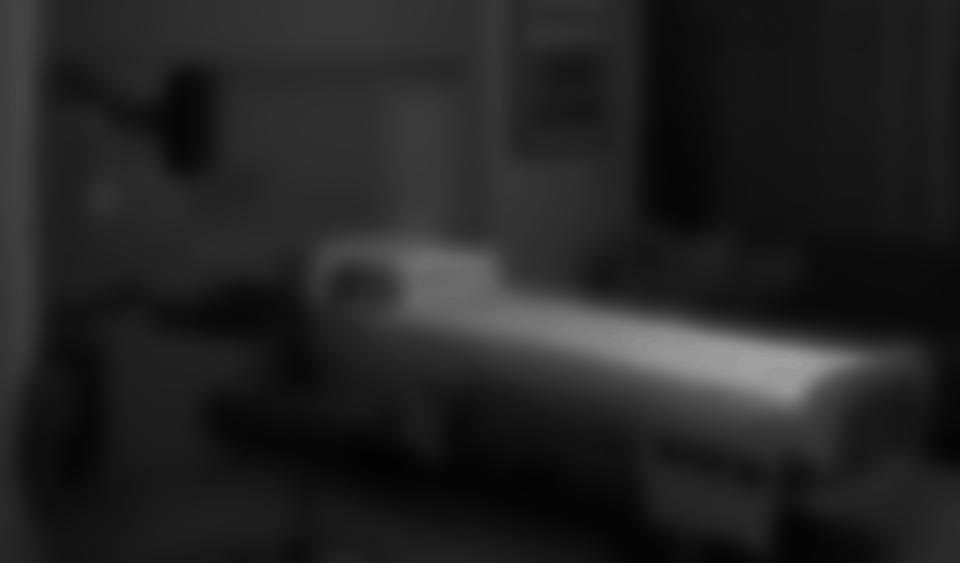
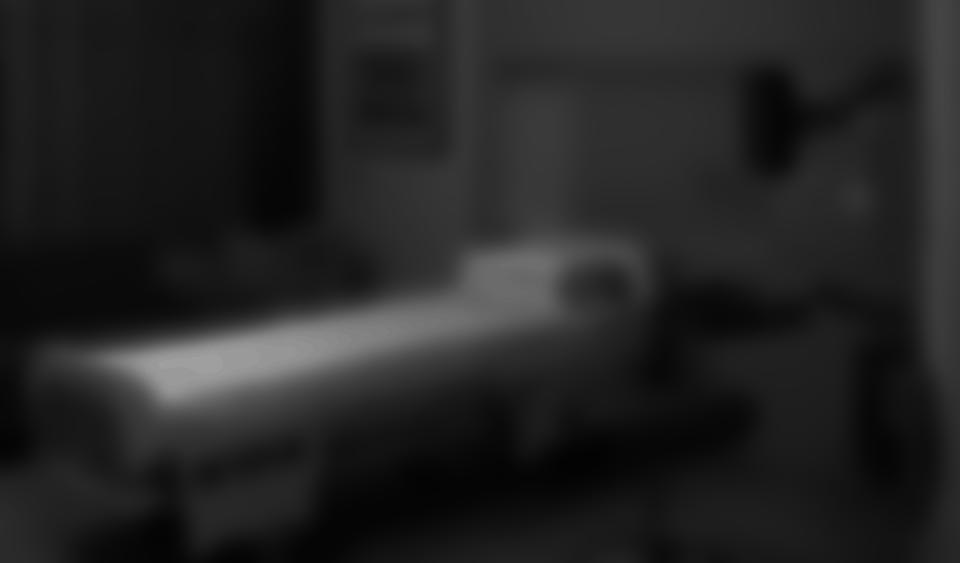
flipped bg horizontally

diff --git a/style.min.css b/style.min.css
@@ -1,1 +1,1 @@
-html{overflow-x:hidden}*{margin:0;-webkit-tap-highlight-color:rgba(0,0,0,0)}body{font-family:Raleway,Georgia,Arial,Verdana;-webkit-font-smoothing:subpixel-antialiased;-moz-font-smoothing:subpixel-antialiased;text-shadow:1px 1px 1px rgba(0,0,0,.1);margin:0}span{display:inline}@font-face{font-family:Raleway;src:url(raleway-webfont.eot);src:url(raleway-webfont.eot?#iefix) format('embedded-opentype'),url(raleway-webfont.woff) format('woff'),url(raleway-webfont.ttf) format('truetype'),url(raleway-webfont.svg#ralewaythin) format('svg');font-weight:700;font-style:normal}@font-face{font-family:Flaticon;src:url(icons/flaticon.eot);src:url(icons/flaticon.eot#iefix) format("embedded-opentype"),url(icons/flaticon.woff) format("woff"),url(icons/flaticon.ttf) format("truetype"),url(icons/flaticon.svg) format("svg");font-weight:400;font-style:normal}img{-webkit-transition:-webkit-transform .3s ease-in;-moz-transition:-moz-transform .3s ease-in;transition:transform .3s ease-in}.debugLog{position:absolute;right:0;top:0;z-index:999;color:#fff}.container{text-align:center;width:100%;height:100%}.device{position:relative;margin:auto;width:295px;height:500px;background-image:url(img-ionsys2-blank.png)}.device .led{position:absolute;height:75px;width:295px}.ledGreen{background-image:url(led-green.png)}.ledRed{background-image:url(led-red.png)}.doseButton{position:absolute;-webkit-tap-highlight-color:rgba(0,0,0,0);cursor:pointer;margin-left:107px;margin-top:76px;height:81px;width:80px;border-radius:40px;z-index:100}.doseButtonPressed{background-image:url(dosebutton-down_s.png)}.pageHeader{position:fixed;padding-top:0;width:100%}.frontHeader{position:fixed;z-index:100}.backHeader{z-index:1;background-color:rgba(0,0,0,.5)}#ionsysLogo img{width:200px}#ionsysLogo h3{display:none}#headerLogo{width:161px;height:50px;background-image:url(img-ionsyslogo4.png);background-repeat:no-repeat;background-size:100%}#headerLogoCircle{width:44px;height:50px;background-image:url(logo-ionsys-circle2.png);background-size:100%}.splash{position:relative;color:#fff;background:url(bg-hospitalroom2.jpg);background-size:auto 100%;background-color:#000;z-index:10;text-align:center;padding-bottom:1em;margin-bottom:-70px}.splash .container{z-index:10;padding-top:0}.container h2{font-size:3em}.container h4{padding:1em}.container p{text-align:justify}.container article{padding:0 2em 1em}#medcoLogo{position:relative;width:15em;margin:auto}#medcoLogo img{width:100%}.caption{padding:.5em}.seven-segment{z-index:99;position:absolute;margin:auto;width:500px;left:-100px;top:110px;-webkit-transform:scale(0.12);-moz-transform:scale(0.12);-ms-transform:scale(0.12);transform:scale(0.12)}.digit{position:relative;display:inline-block;width:180px;height:350px;margin:1.5em}.digit .a{position:absolute;left:10px;height:0;width:100px;border-top:30px solid #000;border-left:30px solid transparent;border-right:30px solid transparent}.digit .b{position:absolute;left:150px;top:10px;height:100px;width:0;border-right:30px solid #000;border-top:30px solid transparent;border-bottom:30px solid transparent}.digit .c{position:absolute;left:150px;top:180px;height:100px;width:0;border-right:30px solid #000;border-top:30px solid transparent;border-bottom:30px solid transparent}.digit .d{position:absolute;top:320px;left:10px;height:0;width:100px;border-bottom:30px solid #000;border-left:30px solid transparent;border-right:30px solid transparent}.digit .e{position:absolute;left:0;top:180px;height:100px;width:0;border-left:30px solid #000;border-top:30px solid transparent;border-bottom:30px solid transparent}.digit .f{position:absolute;left:0;top:10px;height:100px;width:0;border-left:30px solid #000;border-top:30px solid transparent;border-bottom:30px solid transparent}.digit .g:before{position:absolute;content:" ";height:14px;left:0;top:-34px;width:120px;border-bottom:20px solid #000;border-left:20px solid transparent;border-right:20px solid transparent}.digit .g{position:relative;top:175px;left:10px;height:0;margin:0;padding:0;width:160px;background-color:#000}.digit .g:after{position:absolute;content:" ";height:14px;width:120px;left:0;bottom:-34px;border-top:20px solid #000;border-left:20px solid transparent;border-right:20px solid transparent}.control{position:relative;text-align:center}.control button,.control input{outline:0;border-radius:20px;padding:.5em;margin:.2em;-webkit-tap-highlight-color:rgba(0,0,0,0);border:1px solid #fff;background-color:rgba(0,0,0,0);font:1.2em Raleway;color:#fff}.control input[type=number]::-webkit-inner-spin-button,.control input[type=number]::-webkit-outer-spin-button{-webkit-appearance:none;margin:0}.control button:hover{cursor:pointer;border:1px solid #fff;background-color:rgba(256,256,256,.2)}.control button:active{border:1px solid #fff;background-color:rgba(256,256,256,.5)}.digitOff,.digitOff:after,.digitOff:before{border:none!important}.hidden{display:none!important}.notransition{-webkit-transition:none!important;-moz-transition:none!important;-o-transition:none!important;-ms-transition:none!important;transition:none!important}.context{position:relative;padding:1em 0 3em;text-align:center}.contextContent{position:relative;overflow:hidden;height:0;-webkit-transition:all .4s cubic-bezier(.45,.59,.96,.84);-moz-transition:all .4s ease-out;-o-transition:all .4s ease-out;transition:all .4s ease-out}.contextContent.docked{visibility:hidden;position:fixed;height:auto}.contextArrowContainer{position:relative;bottom:0;margin:auto}.contextArrow{display:block;margin:auto;width:3em}.contextArrowClosed{transform:rotate(270deg);-webkit-transform:rotate(270deg);-moz-transform:rotate(270deg)}.contextArrowOpen{transform:rotate(90deg);-webkit-transform:rotate(90deg);-moz-transform:rotate(90deg)}.contextArrow:hover{cursor:pointer}[class*=" flaticon-"]:after,[class*=" flaticon-"]:before,[class^=flaticon-]:after,[class^=flaticon-]:before{font-family:Flaticon;font-size:3em;font-style:normal;margin-left:0}.flaticon-arrow395:before{content:"\e010"}@media only screen and (min-width:900px){.splashLimiter{max-width:900px;margin:auto}#headerLogo{width:242px;height:75px}#headerLogoCircle{width:66px;height:75px}#ionsysLogo{padding-bottom:1em}#ionsysLogo img{width:auto}#ionsysLogo h3{display:block}.container{position:relative;display:inline-block;margin:auto;width:calc(49% - 4em);vertical-align:middle!important}.container h2{font-size:2.5em}.container h3,.splash h3{font-size:1.5em}.container h4{font-size:1.5em;padding:1em}.container header{display:inline-block;padding:0;width:100%}.context{min-height:400px;padding:1em 0 0}.contextOverflow{overflow:hidden;padding-bottom:1em}.contextArrowClosed{transform:rotate(180deg);-webkit-transform:rotate(180deg);-moz-transform:rotate(180deg)}.contextArrowOpen{transform:rotate(0deg);-webkit-transform:rotate(0deg);-moz-transform:rotate(0deg)}.contextContent.slideRight{left:0!important}.contextContent.docked{visibility:visible;height:auto}.contextContent{position:relative;height:auto;left:0;top:1em;display:inline-block;width:100%;-webkit-transition:left .4s cubic-bezier(.45,.59,.96,.84);-moz-transition:left .4s ease-out;-o-transition:left .4s ease-out;transition:left .4s ease-out}.contextArrowContainer{position:absolute;display:inline-block;top:0;left:0;margin:auto;width:3em}.contextArrow{left:0;display:block;position:relative;-webkit-transition:left .4s cubic-bezier(.45,.59,.96,.84);-moz-transition:left .4s ease-out;-o-transition:left .4s ease-out;transition:left .4s ease-out}}
+@font-face{font-family:kickstarter;src:url(BarutaBlack_Trimmed.ttf)}body{font-family:Dosis,Georgia,Arial,Verdana;-webkit-font-smoothing:subpixel-antialiased;-webkit-text-stroke-width:.25px;-moz-font-smoothing:subpixel-antialiased;text-shadow:1px 1px 1px rgba(0,0,0,.1);margin:0;background-color:#9a9a9a;-webkit-touch-callout:none;-webkit-user-select:none;-khtml-user-select:none;-moz-user-select:none;-ms-user-select:none;user-select:none}a{text-decoration:none;color:#fff}section{display:block;position:relative;text-align:justify}.menuBar{position:fixed;width:100%;z-index:20}.menuBar div,.menuBar header,.menuBar nav{background-color:#494949;z-index:10}.menuBar .mbHeader{position:relative;display:block;height:41px;padding:.25em}.menuBar .mbBacking{position:absolute;width:100%}.menuBar header .mbLogo{position:absolute;width:75px;height:38px;text-align:right;background-image:url(machlogo_bw_desktop.png);background-repeat:no-repeat;background-position:left;background-size:100%;cursor:pointer;z-index:11}.menuBar header .mbNavicon{float:right;border-bottom:17px double #fff;border-top:6px solid #fff;content:"";height:5px;width:30px;margin:.5em;cursor:pointer;z-index:12}.menuBar header .mbNavicon:active{border-bottom:17px double #9a9a9a;border-top:6px solid #9a9a9a}.menuBar .mbLinks{position:relative;display:none;right:0;font-size:2em;font-weight:700;z-index:12}.menuBar .mbLinks li{font-family:Raleway,Georgia,Arial,Verdana;display:block;text-align:center;padding:.15em 0}.menuBar .mbLinks .iconLinks li{display:inline-block;padding:0}.menuBar ul .mbTranslucent:hover a{color:#494949!important}.menuBar .mbLinkButton:hover a{color:#9a9a9a}.pageSplash{position:relative;background-color:#9a9a9a;background-size:200%;background-attachment:fixed;background-position-y:40px}.pageSplash header{position:absolute;bottom:0;font-family:Raleway;font-variant:small-caps;-webkit-text-stroke-width:0;color:#FFF;text-align:center;width:100%;margin:1em auto}.pageSplash header h2{font-size:2em}.pageSplash header h3{font-family:Dosis;font-variant:normal;font-size:1.5em}.pageSplash header button,.pageSplash header h4{margin-top:.2em;font-family:Dosis;font-variant:normal;font-weight:400;font-size:1rem}.pageSplash .pageSplashGameLogo{position:absolute;top:10%;right:0;min-width:240px;height:200px;background-image:url(dragon_title_mobile.png);background-size:100% auto;background-repeat:no-repeat;z-index:12}@media only screen and (max-width:680px) and (orientation:landscape){.pageSplash .pageSplashGameLogo{min-width:240px;right:10%}}.pageSplash .pageSplashDragon{position:absolute;top:15%;width:100%;max-width:480px;height:411px;margin:0 auto;left:0;right:0;padding:auto 1em;background-image:url(dragon_bg_mobile.png);background-size:contain;background-repeat:no-repeat;z-index:10}@media only screen and (max-width:680px) and (orientation:landscape){.pageSplash .pageSplashDragon{max-height:280px}}.pageSplash .pageSplashMonkeys{position:absolute;bottom:0;width:100%;max-width:360px;height:150px;margin:0 auto;left:0;right:0;background-image:url(monkeys.png);background-size:100% auto;z-index:10}.pageSplash .ksBlack{font-family:kickstarter,Dosis,Georgia,Arial;color:#000}.pageSplash .ksGreen{font-family:kickstarter,Dosis,Georgia,Arial;color:#2bde73}.psSecondary{height:50px}.pageSplashMedia{position:relative;width:360px;height:240px;margin:auto;background-color:rgba(0,0,0,.75);z-index:11;color:#fff;text-align:center}.pageContent{z-index:14}.pageContent article{padding:0 1em 1em;font-size:1.5em;background-color:#F3F4F5}.pageContent header{text-align:center}.pageContent header h2{font-family:Raleway;font-size:1.5em;color:#fff;display:inline-block;margin:auto}.pageContent article.cardA{background-color:#9a9a9a}.pageContent article.cardB{background-color:#00a550}.pageContent article.cardC{color:#fff;background-color:#494949}.pageContent aside{padding:1em 0;color:#fff}.machBrosBubbles{margin:1em auto;text-align:center}.machBrosBubbles .bubblePic{position:relative;display:inline-block;width:30%;height:150px;margin:auto;background-color:#FFF;background-size:cover;background-position:center;border-radius:20px}.machBrosBubbles .bubblePic h3{font-family:Raleway;font-size:.9em;color:#fff;position:relative;padding-top:.1em;top:150px}.machBrosBubbles .bpEdwin{background-image:url(bubble_portrait_ed.jpg)}.machBrosBubbles .bpAlbert{background-image:url(bubble_portrait_al.jpg)}.machBrosBubbles .bpKevin{background-image:url(bubble_portrait_kev.jpg)}button,input,textarea{display:inline-block;padding:.45em;font-size:1em;border-radius:15px;border:2px solid transparent;margin:.5em}.signupForm fieldset{font-family:Raleway,Georgia,Arial,Verdana;text-align:center}.signupForm fieldset button,.signupForm fieldset input,.signupForm fieldset textarea{font-family:Raleway,Georgia,Arial,Verdana;color:#fff;background-color:#494949;display:block;margin:1em auto;width:280px;border:2px solid #fff}.signupForm fieldset textarea{outline:0;resize:none;overflow:auto;height:6em;font-size:.75em;width:280px}.signupForm fieldset button:focus,.signupForm fieldset input:focus,.signupForm fieldset textarea:focus{background-color:dimgrey;outline:0}.signupForm fieldset button:focus::-webkit-input-placeholder,.signupForm fieldset input:focus::-webkit-input-placeholder,.signupForm fieldset textarea:focus::-webkit-input-placeholder{color:#494949}.signupForm fieldset button:hover,.signupForm fieldset input[type=submit]:hover{border:2px solid #000;background-color:#9a9a9a;color:#000;cursor:pointer}.emailIcon{position:relative;top:3px;margin-right:2px;width:16px;height:16px;background-image:url(email_icon.png)}.siteFooter{position:relative;height:100px;background-image:url(meeples_bg_desktop.jpg);background-position:bottom;background-attachment:fixed;background-size:cover}@media only screen and (min-width:680px){.menuBar{background-color:#494949;height:75px;z-index:20;-webkit-transition:all .15s ease-in;-moz-transition:all .15s ease-in;transition:all .15s ease-in}.menuBar .mbHeader{float:left}.menuBar .mbBacking{display:none}.menuBar header .mbLogo{width:150px;height:75px;background-image:url(machlogo_bw_desktop.png);margin-left:.25em;background-size:auto}.menuBar header .mbNavicon{display:none}.menuBar .mbLinks{display:block;float:right;font-size:2em;border-bottom:none;top:50%;-webkit-transform:translateY(-50%);-moz-transform:translateY(-50%);transform:translateY(-50%)}.menuBar .mbLinks ul{height:100%}.menuBar .mbLinks li,.menuBar .mbLinks li ul{display:inline-block;text-align:right;padding:0 .5em}.mbLinks,.mbLogo,.menuBar *{background-color:rgba(229,230,231,0)!important}.mbTranslucent{background-color:transparent}.pageSplash{background-color:#9a9a9a;background-size:auto;background-position-y:100px;border-bottom:none}.pageSplash .pageSplashGameLogo{position:absolute;width:480px;height:300px;margin:auto;right:2em;background-image:url(dragon_title_desktop.png)}.pageSplash .pageSplashDragon{bottom:0;max-width:640px;height:548px;background-image:url(dragon_bg_desktop.png)}.pageSplash .pageSplashMonkeys{position:absolute;bottom:0;width:100%;max-width:300px;height:219px;background-image:url(monkeys.png);background-size:100% auto;margin:auto;left:auto;right:auto}.pageSplash header{background:0 0;border:none;left:2em;width:auto;text-shadow:2px 2px 2px #000;z-index:11}.pageSplash header h2{font-size:3.5em}.pageSplash header h3{font-size:2.5em}.pageSplash header button,.pageSplash header h4{font-family:Dosis;font-variant:normal;font-weight:400;font-size:1.25rem}.psSecondary{height:100px}.emailIcon{position:relative;top:1px}.pageSplashMedia{width:480px;height:360px;float:right;right:3em}.pageContent{z-index:11;background-color:#e5e6e7;border:none}.pageContent article{padding:0 0 2em}.pageContent aside{padding:1em 0}.pageContent article{margin:0;border-radius:0}.pageContent aside,.pageContent header{max-width:720px;margin:auto;box-shadow:none}.machBrosBubbles .bubblePic{width:150px;height:150px;margin:1em;border-radius:75px;-webkit-transition:all .1s ease;transition:all .1s ease}.machBrosBubbles .bubblePic:hover{-webkit-transform:scale(1.1);transform:scale(1.1)}.machBrosBubbles .bpEdwin{background-image:url(bubble_ed.jpg)}.machBrosBubbles .bpAlbert{background-image:url(bubble_al.jpg)}.machBrosBubbles .bpKevin{background-image:url(bubble_kev.jpg)}.signUpCard{padding-bottom:3em!important}.signupForm fieldset input[type=email],.signupForm fieldset input[type=text]{width:480px}.signupForm fieldset textarea{display:block;margin:auto;width:480px;height:8em}}@media only screen and (min-width:680px) and (max-height:720px){.pageSplash .pageSplashGameLogo{max-width:420px}}@media only screen and (min-width:680px) and (max-height:720px){.pageSplash .pageSplashDragon{max-width:540px}}
